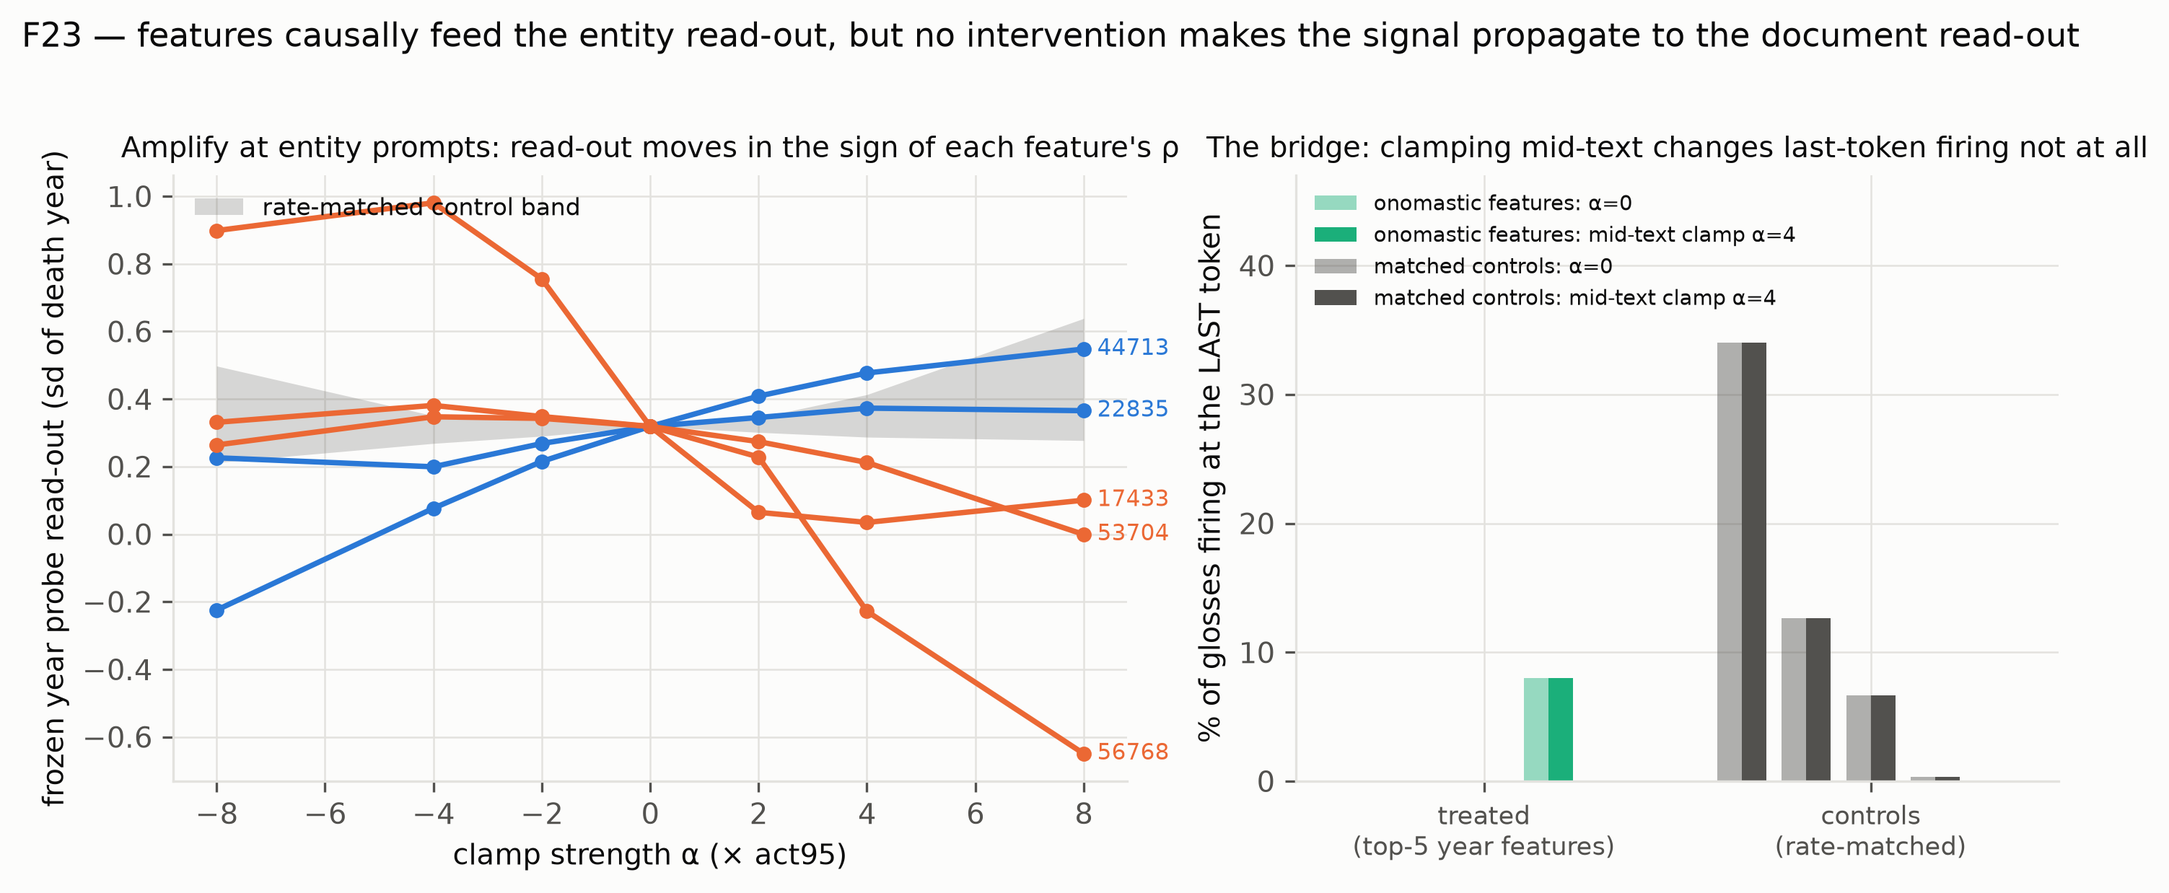
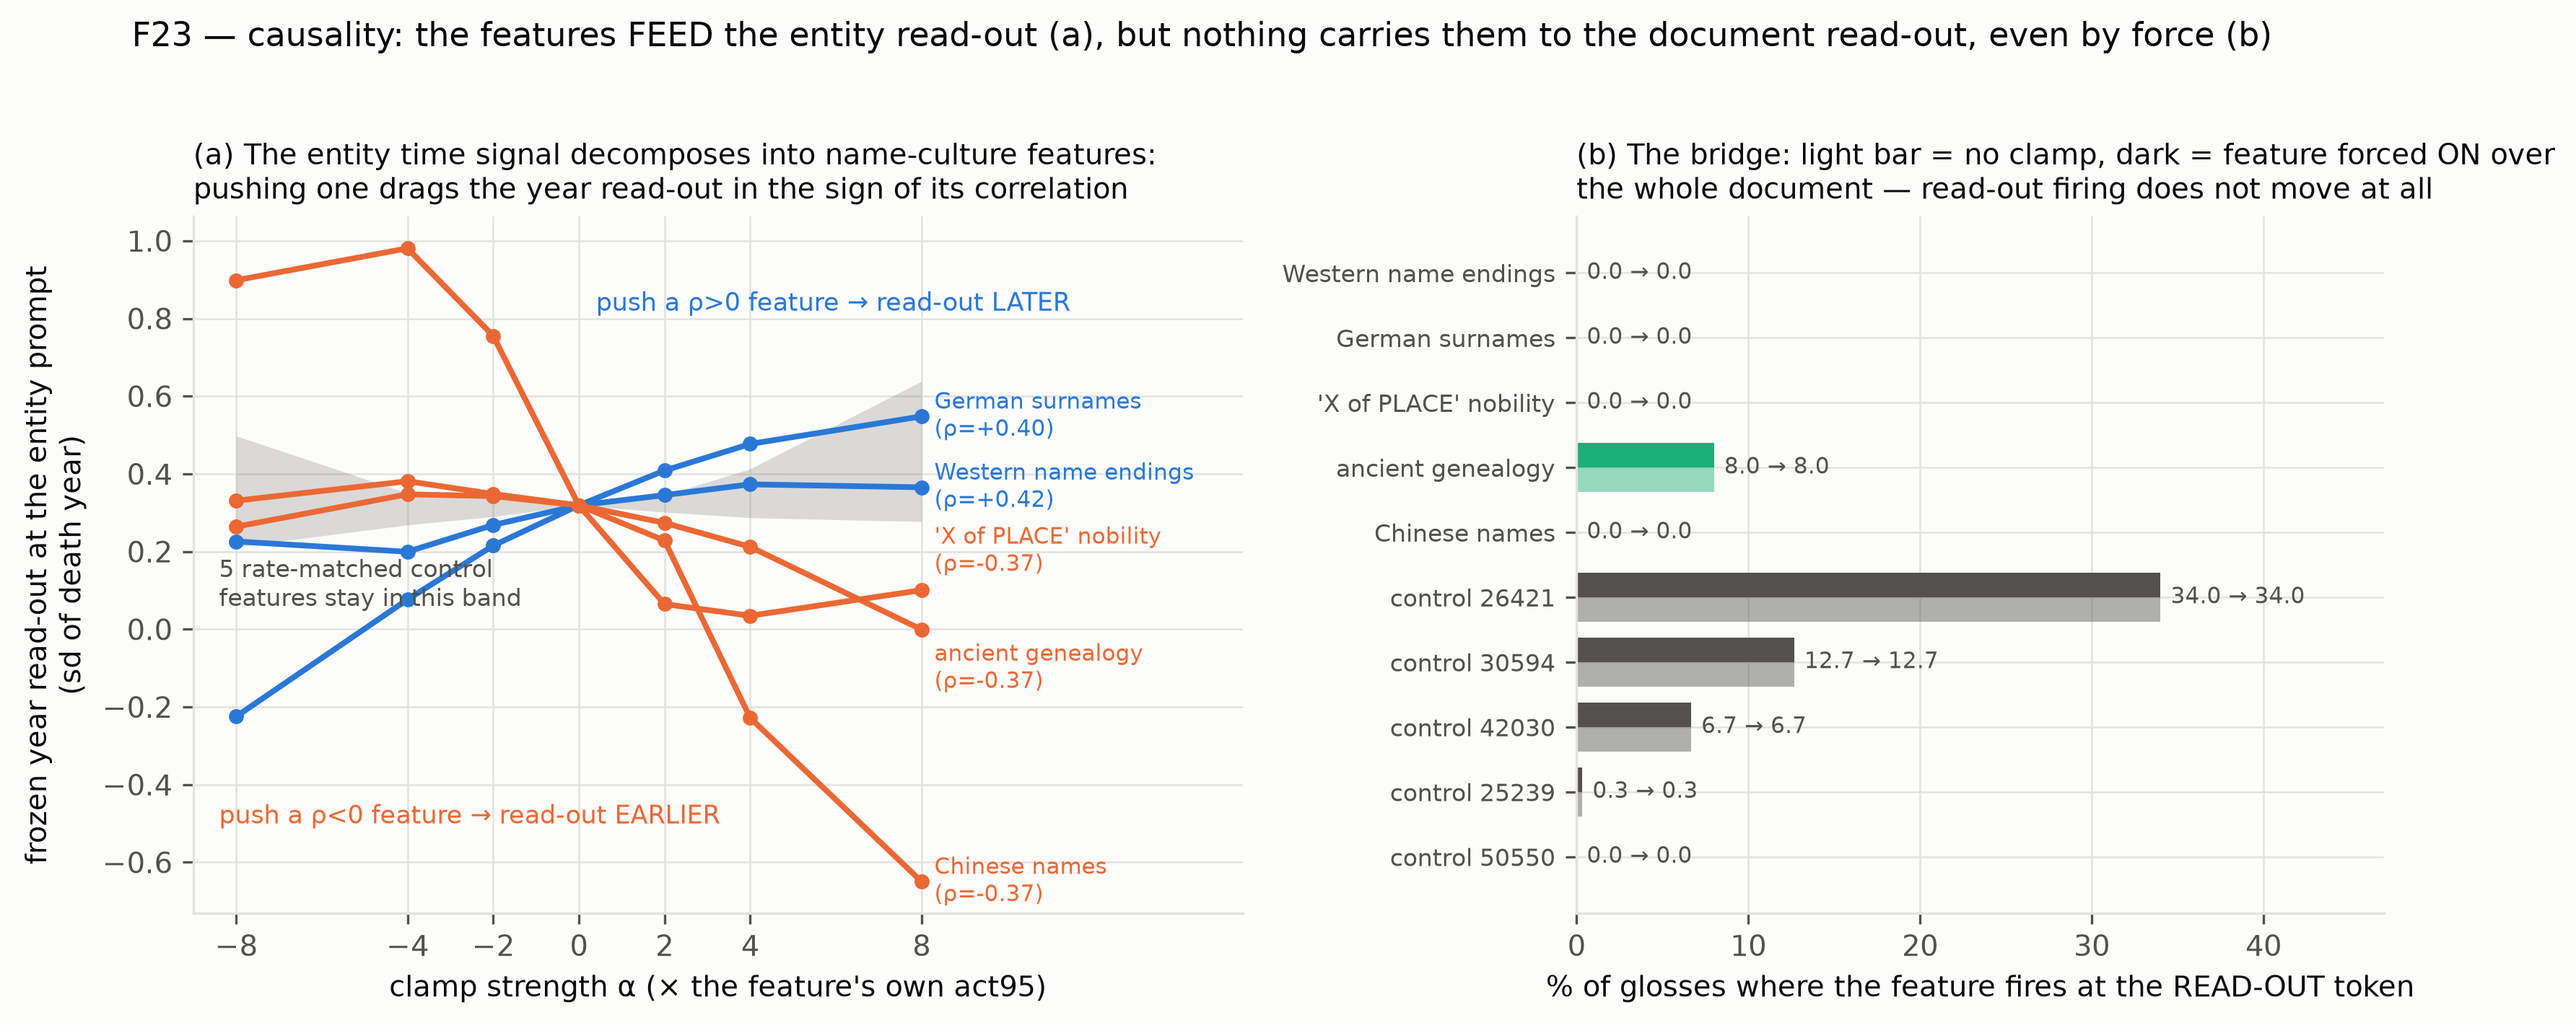
figs: spectrum composition curves (fig8), Anthropic-style feature cards (fig9), annotated causality redesign (fig5)
- fig8: category share along the ranked vocabulary (the user's spectrum
  reading) — ancient-vocab spike in bucket 1 of the entity axis in all
  three models, document axis in the noise; z labels from the F21 nulls
- fig9: feature dashboard cards — real max-activating contexts verbatim
  from feature_interp.layer9.json, rho(year), firing rates per population;
  headline SAE1 feature 38678 stats on top
- fig5: curves labeled with the F25 context-derived names, directional
  annotations, control band called out; bridge bars per-feature with
  before->after values

Claude-Session: https://claude.ai/code/session_01JHeh78QKdtqCUQ199CcdUa

diff --git a/v_1/src/phase2/figs/make_figures.py b/v_1/src/phase2/figs/make_figures.py
@@ -288,58 +288,82 @@ def fig4():
 
 
 # ========================= fig 5 — feature causality ========================
+# short labels are the F25 max-activating-context reads (see
+# sae2/RESULTS.md, feature_interp.layer9.json) — not invented here
+FEAT_LABEL = {44713: "German surnames", 22835: "Western name endings",
+              17433: "'X of PLACE' nobility", 53704: "ancient genealogy",
+              56768: "Chinese names", 9763: "Chinese imperial names"}
+
+
 def fig5():
     st = J("sae2", "results", "steer.layer9.json")
     hunt = pd.read_csv(sorted(glob.glob(os.path.join(
         _P2, "sae2", "results", "feature_hunt2.layer*.csv")))[-1])
     rho = dict(zip(hunt.feature.astype(int), hunt.rho_year))
     alphas = [-8, -4, -2, 0, 2, 4, 8]
-    fig, axes = plt.subplots(1, 2, figsize=(9.6, 4.0),
-                             gridspec_kw={"width_ratios": [1.25, 1]})
+    fig, axes = plt.subplots(1, 2, figsize=(11.2, 4.6),
+                             gridspec_kw={"width_ratios": [1.3, 1]})
+
     ax = axes[0]
     ctrl_curves = np.array([[st["runs"][f"ctrl:{f}"]["amplify"][str(a)]
                              for a in alphas] for f in st["ctrl"]])
     ax.fill_between(alphas, ctrl_curves.min(0), ctrl_curves.max(0),
-                    color=GRAY, alpha=.22, lw=0,
-                    label="rate-matched control band")
+                    color=GRAY, alpha=.20, lw=0)
+    ax.annotate("5 rate-matched control\nfeatures stay in this band",
+                (-8.4, .06), fontsize=8, color=MUT)
     for f in st["treat"]:
         cur = [st["runs"][f"treat:{f}"]["amplify"][str(a)] for a in alphas]
-        c = BLUE if rho.get(int(f), 0) > 0 else ORANGE
-        ax.plot(alphas, cur, "-o", ms=4, lw=1.8, color=c)
-        ax.annotate(str(f), (alphas[-1] + .25, cur[-1]), fontsize=7.5,
+        pos = rho.get(int(f), 0) > 0
+        c = BLUE if pos else ORANGE
+        ax.plot(alphas, cur, "-o", ms=4, lw=1.9, color=c)
+        lab = FEAT_LABEL.get(int(f), str(f))
+        dodge = {17433: .10, 53704: -.10}.get(int(f), 0.0)
+        ax.annotate(f"{lab}\n(\u03c1={rho.get(int(f), 0):+.2f})",
+                    (alphas[-1] + .3, cur[-1] + dodge), fontsize=7.5,
                     color=c, va="center")
-    ax.set_xlabel("clamp strength α (× act95)")
-    ax.set_ylabel("frozen year probe read-out (sd of death year)")
-    ax.set_title("Amplify at entity prompts: read-out moves in the sign"
-                 " of each feature's ρ", fontsize=9.5)
-    ax.legend(frameon=False, fontsize=8, loc="upper left")
+    ax.annotate("push a \u03c1>0 feature \u2192 read-out LATER",
+                (0.4, .82), fontsize=8.5, color=BLUE)
+    ax.annotate("push a \u03c1<0 feature \u2192 read-out EARLIER",
+                (-8.4, -.5), fontsize=8.5, color=ORANGE)
+    ax.set_xlim(-9, 15.5)
+    ax.set_xticks(alphas)
+    ax.set_xlabel("clamp strength \u03b1 (\u00d7 the feature's own act95)")
+    ax.set_ylabel("frozen year read-out at the entity prompt\n"
+                  "(sd of death year)")
+    ax.set_title("(a) The entity time signal decomposes into name-culture"
+                 " features:\npushing one drags the year read-out in the"
+                 " sign of its correlation", fontsize=9.5, loc="left")
     style_ax(ax)
+
     ax = axes[1]
-    groups = [("treat", "onomastic features", AQUA),
-              ("ctrl", "matched controls", GRAY)]
-    for gi, (g, lab, c) in enumerate(groups):
-        f0 = [st["runs"][f"{g}:{f}"]["bridge"]["0"]["fire_last"]
-              for f in st[g]]
-        f4 = [st["runs"][f"{g}:{f}"]["bridge"]["4"]["fire_last"]
-              for f in st[g]]
-        x = np.arange(len(f0)) + gi * (len(f0) + 1)
-        ax.bar(x - .19, 100 * np.array(f0), width=.38, color=c, alpha=.45,
-               label=f"{lab}: α=0" if gi < 2 else None)
-        ax.bar(x + .19, 100 * np.array(f4), width=.38, color=c,
-               label=f"{lab}: mid-text clamp α=4" if gi < 2 else None)
-    ax.set_xticks([2, 8])
-    ax.set_xticklabels(["treated\n(top-5 year features)",
-                        "controls\n(rate-matched)"], fontsize=8.5)
-    ax.set_ylabel("% of glosses firing at the LAST token")
-    ax.set_title("The bridge: clamping mid-text changes last-token firing"
-                 " not at all", fontsize=9.5)
-    ax.legend(frameon=False, fontsize=7, loc="upper left",
-              bbox_to_anchor=(0.0, 1.0), ncol=1)
-    ax.set_ylim(0, 47)
+    labels, base_v, clamp_v, cols = [], [], [], []
+    for g, c in (("treat", AQUA), ("ctrl", GRAY)):
+        for f in st[g]:
+            b = st["runs"][f"{g}:{f}"]["bridge"]
+            labels.append(FEAT_LABEL.get(int(f), str(f))
+                          if g == "treat" else f"control {f}")
+            base_v.append(100 * b["0"]["fire_last"])
+            clamp_v.append(100 * b["4"]["fire_last"])
+            cols.append(c)
+    y = np.arange(len(labels))
+    ax.barh(y + .19, base_v, height=.38, color=cols, alpha=.45)
+    ax.barh(y - .19, clamp_v, height=.38, color=cols)
+    for yi, (b, cl) in enumerate(zip(base_v, clamp_v)):
+        ax.annotate(f"{b:.1f} \u2192 {cl:.1f}", (max(b, cl) + .6, yi),
+                    va="center", fontsize=7.5, color=MUT)
+    ax.set_yticks(y)
+    ax.set_yticklabels(labels, fontsize=8)
+    ax.invert_yaxis()
+    ax.set_xlabel("% of glosses where the feature fires at the READ-OUT"
+                  " token")
+    ax.set_title("(b) The bridge: light bar = no clamp, dark = feature"
+                 " forced ON over\nthe whole document \u2014 read-out"
+                 " firing does not move at all", fontsize=9.5, loc="left")
+    ax.set_xlim(0, 47)
     style_ax(ax)
-    fig.suptitle("F23 — features causally feed the entity read-out, but no"
-                 " intervention makes the signal propagate to the document"
-                 " read-out", fontsize=11, y=1.02)
+    fig.suptitle("F23 \u2014 causality: the features FEED the entity"
+                 " read-out (a), but nothing carries them to the document"
+                 " read-out, even by force (b)", fontsize=11, y=1.02)
     fig.tight_layout()
     fig.savefig(os.path.join(OUT, "fig5_causal.png"), dpi=300,
                 bbox_inches="tight")
@@ -484,8 +508,139 @@ def fig7():
     plt.close(fig)
 
 
+# =================== fig 8 — the spectrum as composition curves =============
+def fig8():
+    """The user-proposed reading: category share ALONG the ranked vocabulary
+    (10 buckets), not just the extreme ends. Share of ancient-temporal
+    vocabulary per bucket, entity axis vs document axis, per model;
+    significance markers carry the z vs 50 random directions."""
+    methods = ["olmo2_7b", "llama2_7b", "qwen3_8b"]
+    cat = "temporal_ancient"
+    fig, axes = plt.subplots(1, 3, figsize=(10.8, 3.6), sharey=True)
+    for ax, m in zip(axes, methods):
+        d = J("traces", "results", f"spectroscopy.{m}.json")
+        ci = d["cats"].index(cat)
+        x = np.arange(1, 11)
+        for dname, c, lab in (("cellA", BLUE, "entity time axis"),
+                              ("pairwise_doc", GRAY, "document axis")):
+            rec = d["directions"][dname]["cos"]
+            comp = 100 * np.array(rec["composition"])[:, ci]
+            z = np.array(rec["z_scores"])[:, ci]
+            ax.plot(x, comp, "-o", ms=4, lw=1.8, color=c, label=lab)
+            for xi, (cv, zv) in enumerate(zip(comp, z)):
+                if abs(zv) >= 3.35:
+                    ax.annotate(f"z={zv:+.1f}", (x[xi] + .35, cv),
+                                ha="left", va="center", fontsize=7.5,
+                                color=c)
+                    ax.plot(x[xi], cv, "o", ms=9, mfc="none", mec=INK,
+                            mew=1.2)
+        ax.set_title(ARM_LABEL.get(m, m), fontsize=10)
+        ax.set_xticks([1, 5, 10])
+        ax.set_xticklabels(["1\n(early end)", "5", "10\n(late end)"],
+                           fontsize=8)
+        ax.set_xlabel("rank bucket along the direction")
+        style_ax(ax)
+    axes[0].set_ylabel("share of ancient-temporal tokens\nin bucket (%)")
+    axes[0].legend(frameon=False, fontsize=8, loc="upper right")
+    fig.suptitle("F21 — reading the whole spectrum, not just the ends:"
+                 " ancient vocabulary concentrates in the entity axis's"
+                 " first bucket in every model (\u25cb = |z| \u2265 3.35);"
+                 " the document axis never leaves the noise", fontsize=10.5,
+                 y=1.04)
+    fig.tight_layout()
+    fig.savefig(os.path.join(OUT, "fig8_spectrum_curves.png"), dpi=300,
+                bbox_inches="tight")
+    plt.close(fig)
+
+
+# ================= fig 9 — feature dashboard (interp-paper style) ===========
+def fig9():
+    """Anthropic-dashboard-style cards for the SAE features: label, real
+    max-activating contexts (from feature_interp.layer9.json, verbatim),
+    year-correlation, and firing rates across the four populations. The
+    SAE1 headline feature (38678, layer 24) heads the figure with its
+    committed stats."""
+    interp = J("sae2", "results", "feature_interp.layer9.json")
+    hunt = pd.read_csv(sorted(glob.glob(os.path.join(
+        _P2, "sae2", "results", "feature_hunt2.layer*.csv")))[-1])
+    hunt = hunt.set_index(hunt.feature.astype(int))
+    fh1 = pd.read_csv(os.path.join(_P2, "sae", "results",
+                                   "feature_hunt.layer24.csv"))
+    f1 = fh1[fh1.feature == 38678].iloc[0]
+
+    show = [44713, 17433, 53704, 56768]     # Latin-script contexts
+    fig = plt.figure(figsize=(10.5, 8.2))
+    gs = fig.add_gridspec(len(show) + 1, 5, hspace=.75, wspace=.5,
+                          width_ratios=[2.9, 1, 1, 1, 1])
+
+    # header row: the SAE1 feature
+    axh = fig.add_subplot(gs[0, :])
+    axh.axis("off")
+    axh.text(0, .84, "Qwen-Scope layer 24 \u00b7 feature 38678 \u2014 the"
+             " headline entity-time feature (F8)", fontsize=10.5,
+             fontweight="bold", color=INK)
+    axh.text(0, .38, f"fires on {100*f1.fire_cellA:.0f}% of entity prompts"
+             f" with \u03c1(strength, death year) = {f1.rho_year:+.2f};"
+             f" on documents: {100*f1.fire_eng_tier0:.2f}% of English"
+             f" glosses, {100*f1.fire_akk_maximal:.2f}% of Akkadian"
+             " fragments \u2014 the entity gate in one feature",
+             fontsize=9, color=MUT)
+    axh.axhline(.05, color=GRID, lw=1)
+
+    def clean(ctx):
+        return ctx.split("<|endoftext|>")[0].strip()[:72]
+
+    pops = [("fire_cellA", "entities"), ("fire_eng_tier0_frags", "eng"),
+            ("fire_akk_maximal_frags", "akk")]
+    for i, f in enumerate(show):
+        rec = interp["features"][str(f)]
+        # contexts column
+        ax = fig.add_subplot(gs[i + 1, 0])
+        ax.axis("off")
+        lab = FEAT_LABEL.get(f, str(f))
+        ax.text(0, 1.02, f"L9 \u00b7 65k \u00b7 feature {f} \u2014 "
+                f"\u201c{lab}\u201d", fontsize=9.5, fontweight="bold",
+                color=INK, va="bottom")
+        exs = [e for e in rec["max_activating"] if clean(e["context"])][:3]
+        for j, e in enumerate(exs):
+            ax.text(0, .78 - .3 * j, clean(e["context"]), fontsize=7.6,
+                    family="monospace", color=INK, va="top")
+        # rho bar
+        ax = fig.add_subplot(gs[i + 1, 1])
+        r = float(hunt.loc[f, "rho_year"])
+        ax.barh([0], [r], color=BLUE if r > 0 else ORANGE, height=.5)
+        ax.set_xlim(-.5, .5)
+        ax.axvline(0, color=GRID, lw=1)
+        ax.set_yticks([])
+        ax.set_xticks([-.4, 0, .4])
+        ax.tick_params(labelsize=7)
+        if i == 0:
+            ax.set_title("\u03c1(year)", fontsize=8, pad=14)
+        style_ax(ax)
+        # firing-rate bars
+        for k, (col, plab) in enumerate(pops):
+            ax = fig.add_subplot(gs[i + 1, 2 + k])
+            v = 100 * float(hunt.loc[f, col])
+            ax.bar([0], [v], color=[AQUA, BLUE, ORANGE][k], width=.5)
+            ax.set_ylim(0, 60)
+            ax.set_xticks([])
+            ax.tick_params(labelsize=7)
+            ax.annotate(f"{v:.1f}%" if v >= .1 else f"{v:.2f}%",
+                        (0, v + 2), ha="center", fontsize=7.5)
+            if i == 0:
+                ax.set_title(f"fires on\n{plab} (%)", fontsize=8)
+            style_ax(ax)
+    fig.suptitle("F25 \u2014 what the year-correlated features actually are:"
+                 " name-culture detectors. Each card: real max-activating"
+                 " contexts (firing token marked >>so<<), year correlation,"
+                 " firing rates per population", fontsize=10.5, y=.985)
+    fig.savefig(os.path.join(OUT, "fig9_feature_cards.png"), dpi=300,
+                bbox_inches="tight")
+    plt.close(fig)
+
+
 if __name__ == "__main__":
-    for fn in (fig1, fig2, fig3, fig4, fig5, fig6, fig7):
+    for fn in (fig1, fig2, fig3, fig4, fig5, fig6, fig7, fig8, fig9):
         fn()
         print(f"[fig] {fn.__name__} done", flush=True)
     print(f"[done] -> {OUT}", flush=True)
